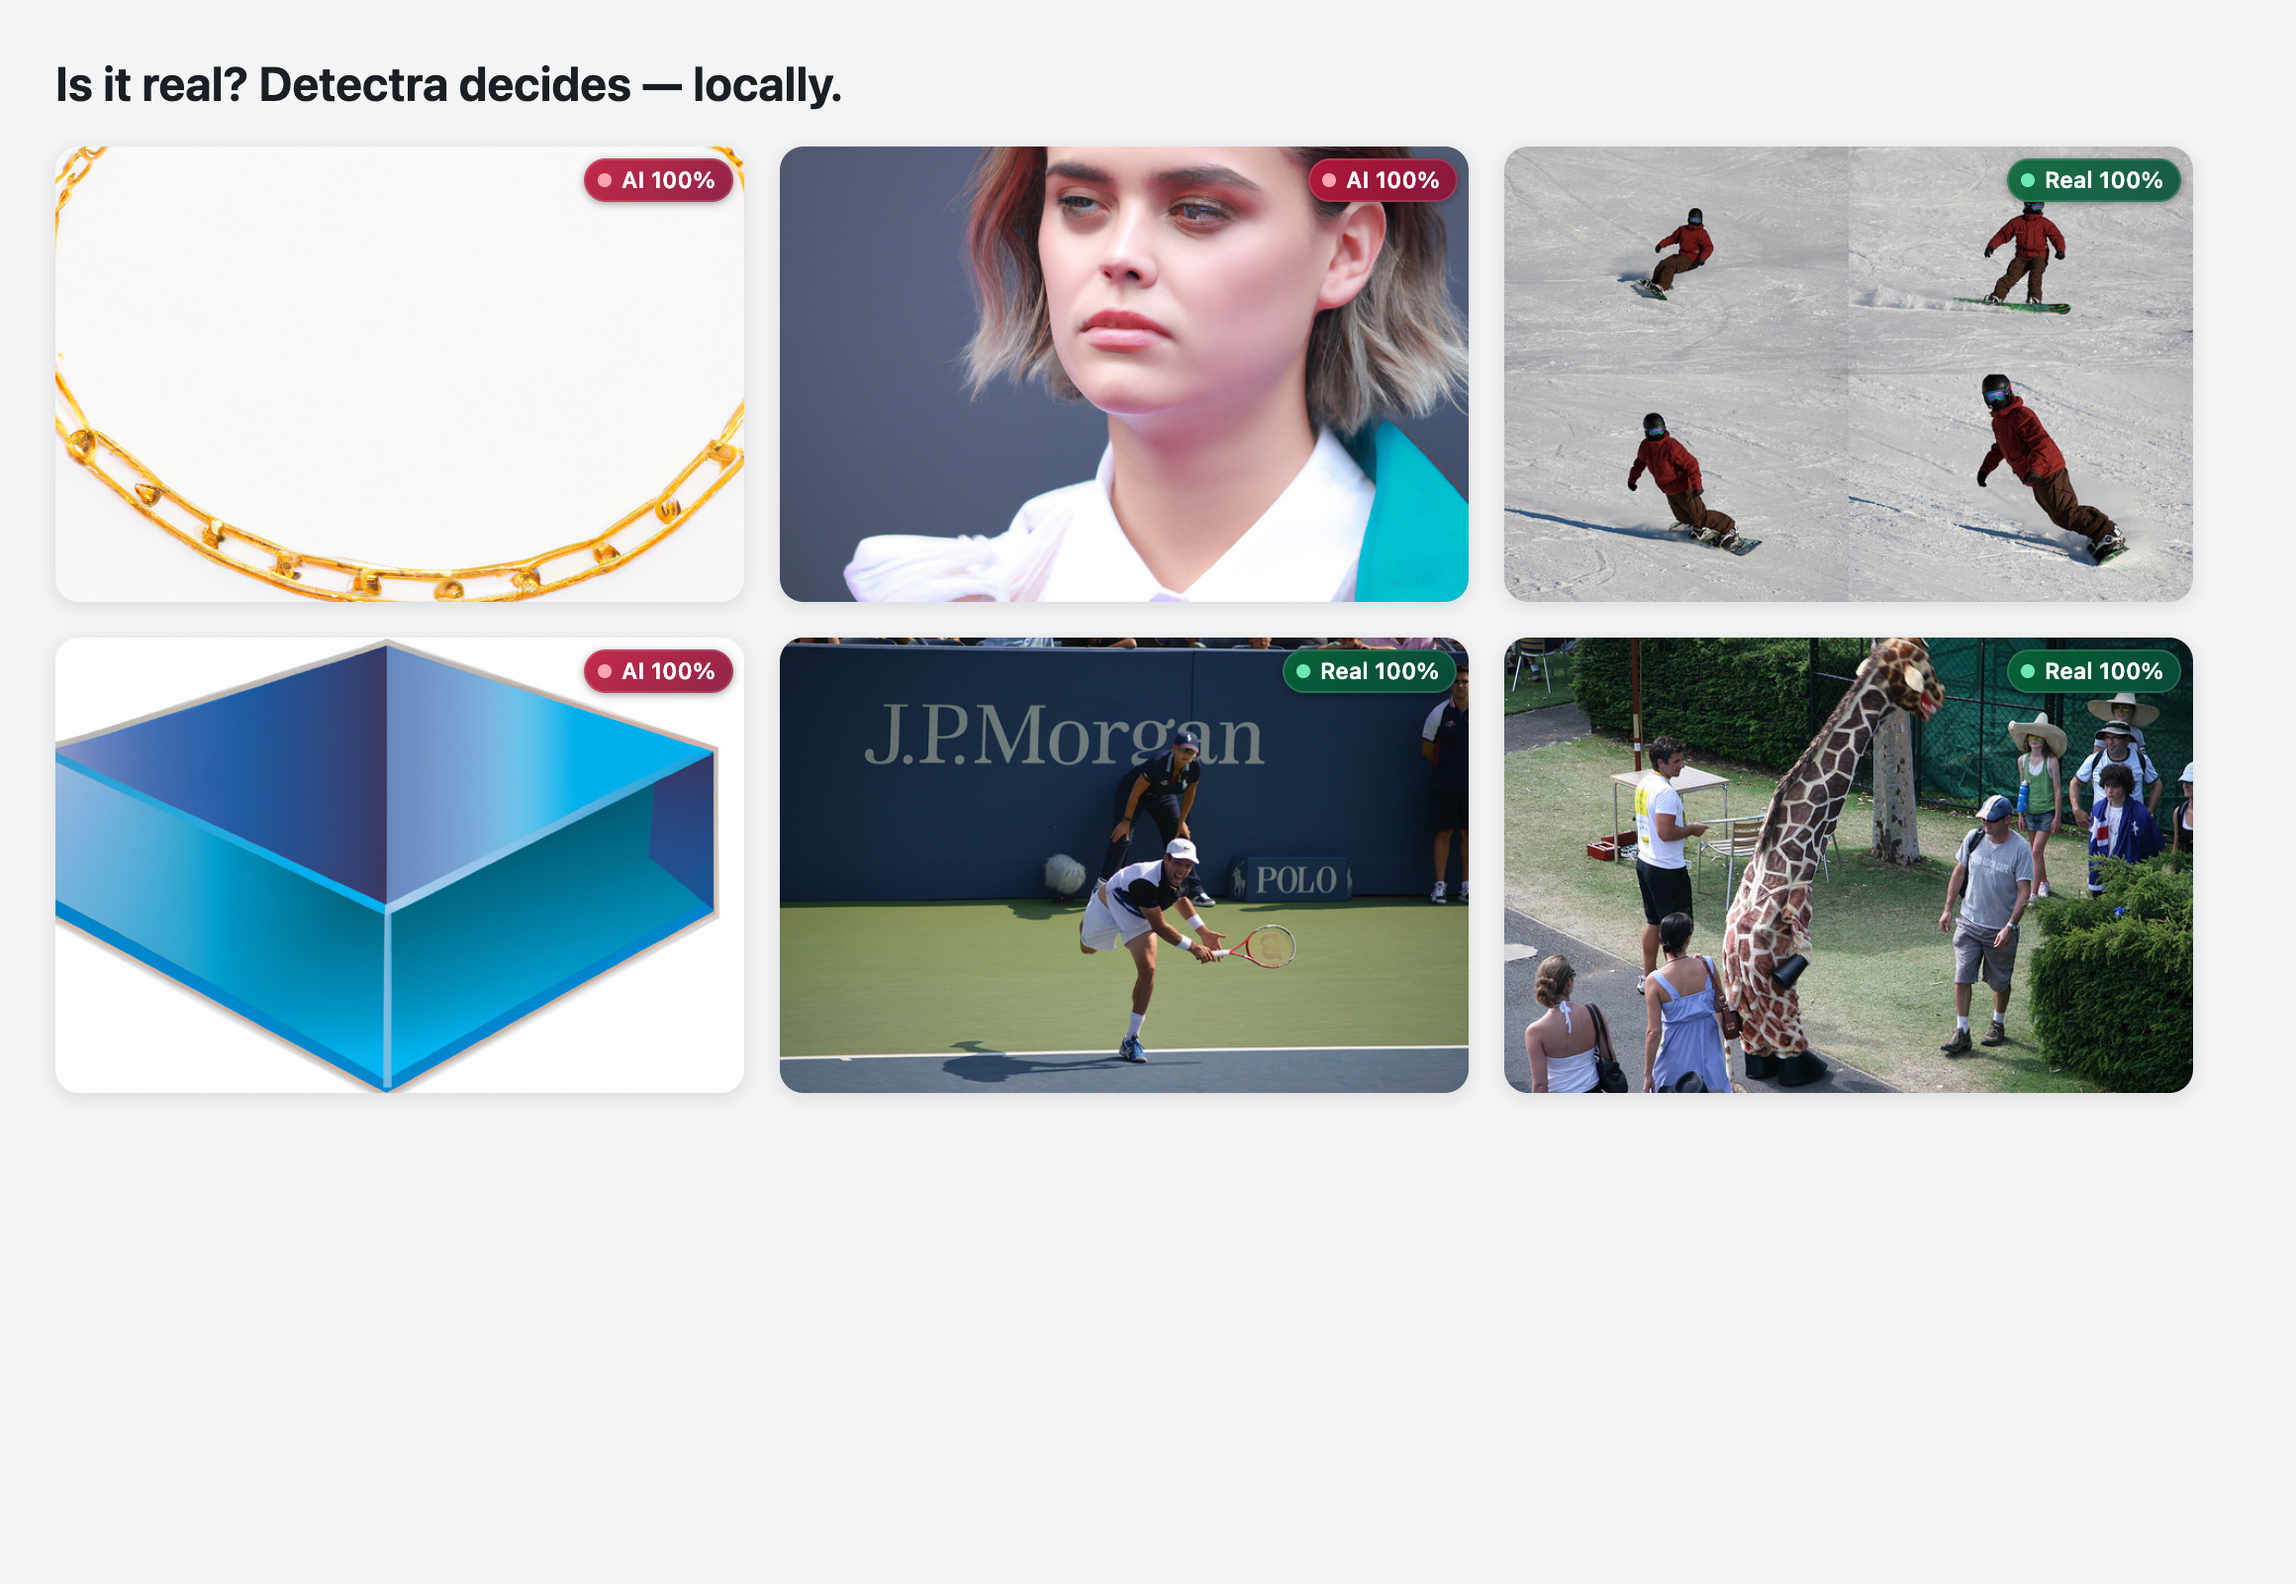
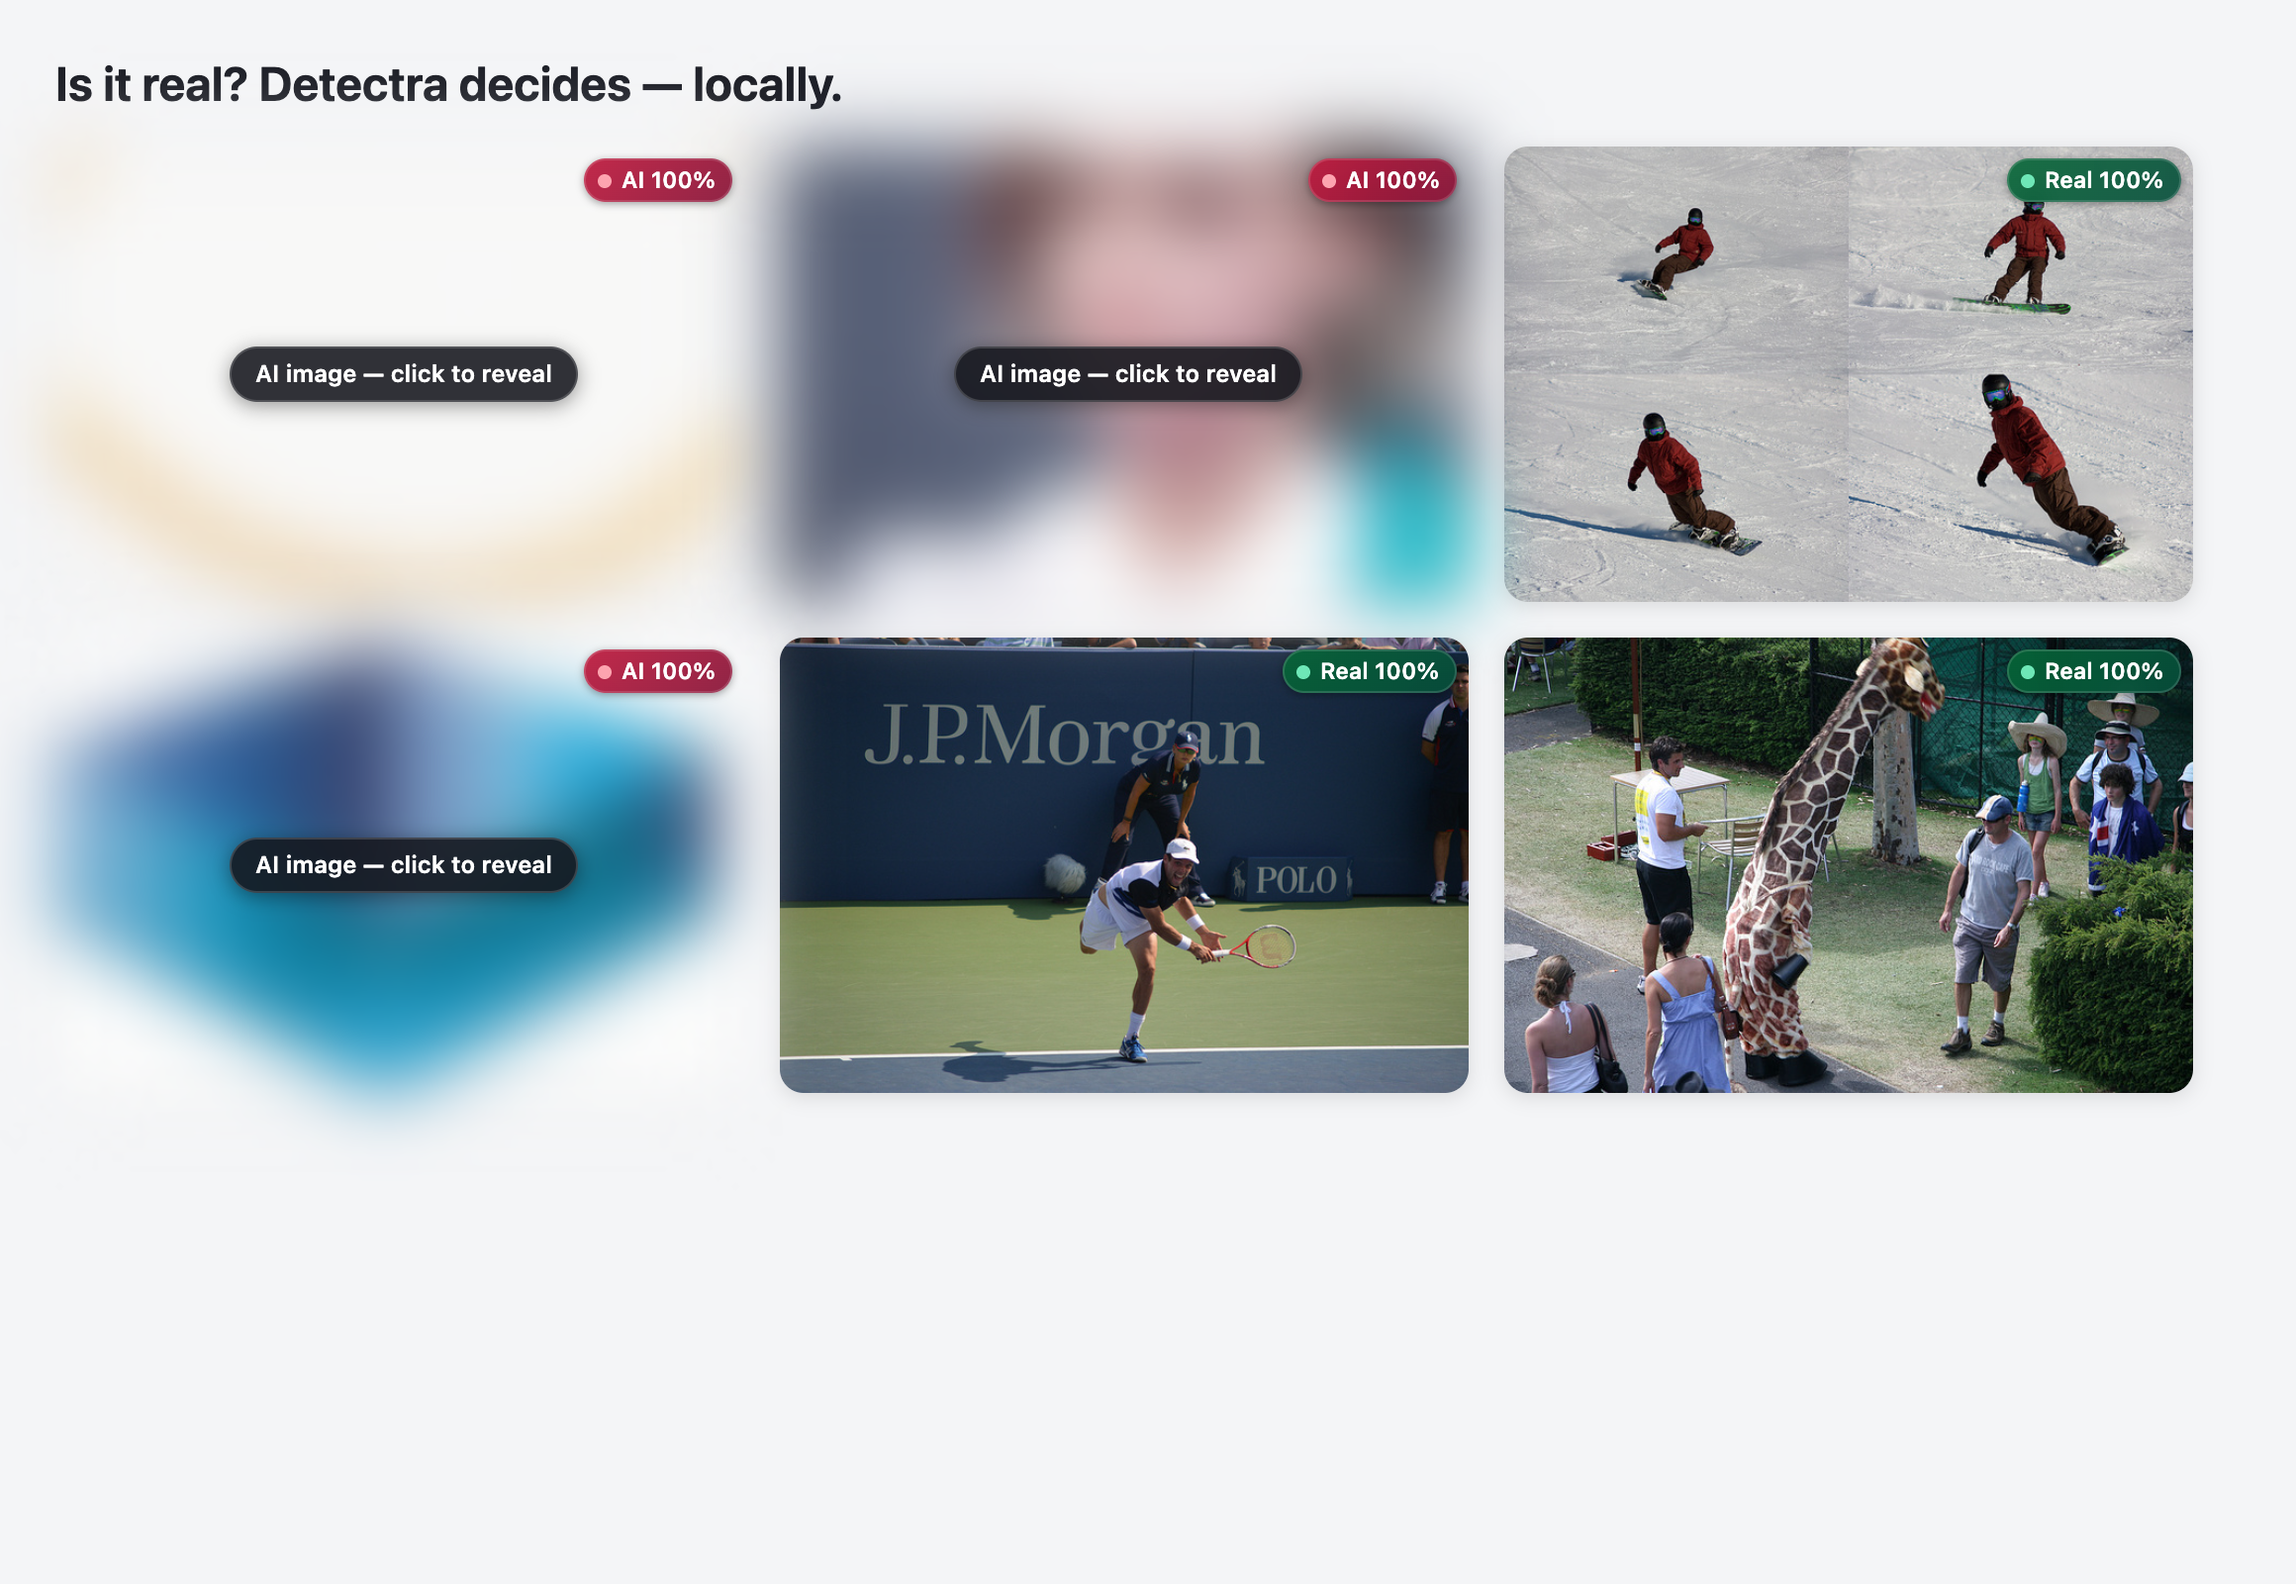
Auto-blur AI images with click-to-reveal (popup toggle, default on)

Changed region(s): [[0.0, 0.0625, 0.6828, 0.7188], [0.0931, 0.2188, 0.2793, 0.2812], [0.031, 0.0938, 0.0621, 0.125]]

diff --git a/extension/src/content.js b/extension/src/content.js
@@ -11,6 +11,7 @@ const REAL_THRESHOLD = 0.35;
 
 const tracked = new Map(); // HTMLImageElement -> record
 let recId = 0;
+let blurAI = true; // auto-blur images called AI at the 65% threshold (toggle in popup)
 const byUrl = new Map(); // url -> result (page-local cache)
 let overlayRoot = null; // ShadowRoot
 let enabled = true;
@@ -54,11 +55,50 @@ function paintBadge(rec) {
     const [cls, txt] = labelFor(rec.result.p);
     el.className = `badge ${cls}`;
     el.querySelector('.txt').textContent = txt;
+    applyBlur(rec);
   } else if (rec.status === 'error') {
     el.className = 'badge err';
     el.querySelector('.txt').textContent = '–';
     el.title = rec.error || 'analysis failed';
   }
+}
+
+// ----------------------------------------------------------- auto-blur -----
+
+function applyBlur(rec) {
+  const shouldBlur = blurAI && !rec.revealed && rec.result && rec.result.p >= AI_THRESHOLD;
+  if (shouldBlur && !rec.blurred) {
+    rec.prevFilter = rec.img.style.filter || '';
+    rec.img.style.setProperty('filter', 'blur(18px) saturate(.85)', 'important');
+    rec.blurred = true;
+    if (!rec.reveal) {
+      const chip = document.createElement('div');
+      chip.className = 'reveal';
+      chip.textContent = 'AI image — click to reveal';
+      chip.addEventListener('click', () => {
+        rec.revealed = true;
+        applyBlur(rec);
+      });
+      ensureOverlay().appendChild(chip);
+      rec.reveal = chip;
+    }
+    positionReveal(rec);
+  } else if (!shouldBlur && rec.blurred) {
+    rec.img.style.setProperty('filter', rec.prevFilter);
+    if (!rec.prevFilter) rec.img.style.removeProperty('filter');
+    rec.blurred = false;
+    rec.reveal?.remove();
+    rec.reveal = null;
+  }
+}
+
+function positionReveal(rec) {
+  if (!rec.reveal) return;
+  const r = rec.img.getBoundingClientRect();
+  const visible = r.width >= MIN_DISPLAY && r.bottom > 0 && r.top < innerHeight && rec.img.isConnected;
+  rec.reveal.style.display = visible ? 'flex' : 'none';
+  if (!visible) return;
+  rec.reveal.style.transform = `translate(${r.left + scrollX + r.width / 2}px, ${r.top + scrollY + r.height / 2}px)`;
 }
 
 function position(rec) {
@@ -76,7 +116,10 @@ function position(rec) {
 
 function repositionAll() {
   rafPending = false;
-  for (const rec of tracked.values()) position(rec);
+  for (const rec of tracked.values()) {
+    position(rec);
+    positionReveal(rec);
+  }
 }
 function scheduleReposition() {
   if (!rafPending) {
@@ -235,6 +278,11 @@ function detach(img) {
   const rec = tracked.get(img);
   if (rec) {
     rec.badge?.remove();
+    rec.reveal?.remove();
+    if (rec.blurred) {
+      rec.img.style.setProperty('filter', rec.prevFilter || '');
+      if (!rec.prevFilter) rec.img.style.removeProperty('filter');
+    }
     tracked.delete(img);
   }
 }
@@ -296,12 +344,18 @@ chrome.runtime.onMessage.addListener((msg, _sender, sendResponse) => {
     if (!enabled) for (const img of [...tracked.keys()]) detach(img);
     else sweep();
     sendResponse({ ok: true });
+  } else if (msg?.type === 'set-blur') {
+    blurAI = msg.blurAI;
+    for (const rec of tracked.values()) applyBlur(rec);
+    scheduleReposition();
+    sendResponse({ ok: true });
   }
   return false;
 });
 
 async function init() {
-  const { siteDisabled = {} } = await chrome.storage.local.get('siteDisabled');
+  const { siteDisabled = {}, blurAI: storedBlur } = await chrome.storage.local.get(['siteDisabled', 'blurAI']);
+  if (typeof storedBlur === 'boolean') blurAI = storedBlur;
   if (siteDisabled[location.hostname]) enabled = false;
   if (!enabled) return;
   sweep();
@@ -363,4 +417,13 @@ const BADGE_CSS = `
   position: absolute; top: 0; left: 0; display: grid; pointer-events: none;
   border-radius: 4px; overflow: hidden; mix-blend-mode: normal;
 }
+.reveal {
+  position: absolute; top: 0; left: 0; margin: -14px 0 0 -86px; /* centers on translate point */
+  display: flex; align-items: center; padding: 6px 13px; border-radius: 999px;
+  font: 600 12px/1.3 -apple-system, system-ui, "Segoe UI", sans-serif;
+  color: #fff; background: rgba(20,22,28,.88); backdrop-filter: blur(4px);
+  box-shadow: 0 2px 10px rgba(0,0,0,.4), inset 0 0 0 1px rgba(255,255,255,.16);
+  cursor: pointer; pointer-events: auto; user-select: none; white-space: nowrap;
+}
+.reveal:hover { background: rgba(30,33,42,.95); }
 `;

diff --git a/extension/src/popup.js b/extension/src/popup.js
@@ -64,12 +64,28 @@ $('toggle-site').onclick = async () => {
 
 $('open-lab').onclick = () => chrome.runtime.sendMessage({ target: 'bg', type: 'open-lab' });
 
+async function refreshBlur() {
+  const { blurAI = true } = await chrome.storage.local.get('blurAI');
+  $('toggle-blur').textContent = `Blur AI images: ${blurAI ? 'on' : 'off'}`;
+  return blurAI;
+}
+$('toggle-blur').onclick = async () => {
+  const blurAI = !(await refreshBlur());
+  await chrome.storage.local.set({ blurAI });
+  const tabs = await chrome.tabs.query({});
+  for (const t of tabs) {
+    if (t.id != null) chrome.tabs.sendMessage(t.id, { type: 'set-blur', blurAI }).catch(() => {});
+  }
+  refreshBlur();
+};
+
 chrome.runtime.onMessage.addListener((msg) => {
   if (msg?.target === 'broadcast' && msg.type === 'engine-status') renderStatus(msg);
 });
 
 (async function init() {
   refreshSiteToggle();
+  refreshBlur();
   refreshStats();
   const s = await chrome.runtime.sendMessage({ target: 'bg', type: 'engine-status' }).catch(() => null);
   renderStatus(s);

diff --git a/extension/static/popup.html b/extension/static/popup.html
@@ -52,6 +52,7 @@
       <div><div class="n warn" id="s-unsure">–</div><div class="l">unsure</div></div>
     </div>
     <button id="rescan">Rescan this page</button>
+    <button id="toggle-blur">Blur AI images: on</button>
     <button id="toggle-site">Disable on this site</button>
   </div>
 

diff --git a/README.md b/README.md
@@ -58,6 +58,12 @@ Every eligible image on a page goes through a four-signal forensic pipeline:
 Hover any badge for the full forensic breakdown: neural score (raw and
 calibrated), every provenance signal found, engine (WebGPU/WASM), and timing.
 
+Images called AI at the 65% threshold are also **auto-blurred** with a
+click-to-reveal chip (toggle it from the popup), so synthetic content never
+ambushes you mid-scroll:
+
+![Auto-blur with click-to-reveal](docs/badges.png)
+
 ## Install
 
 ```bash
